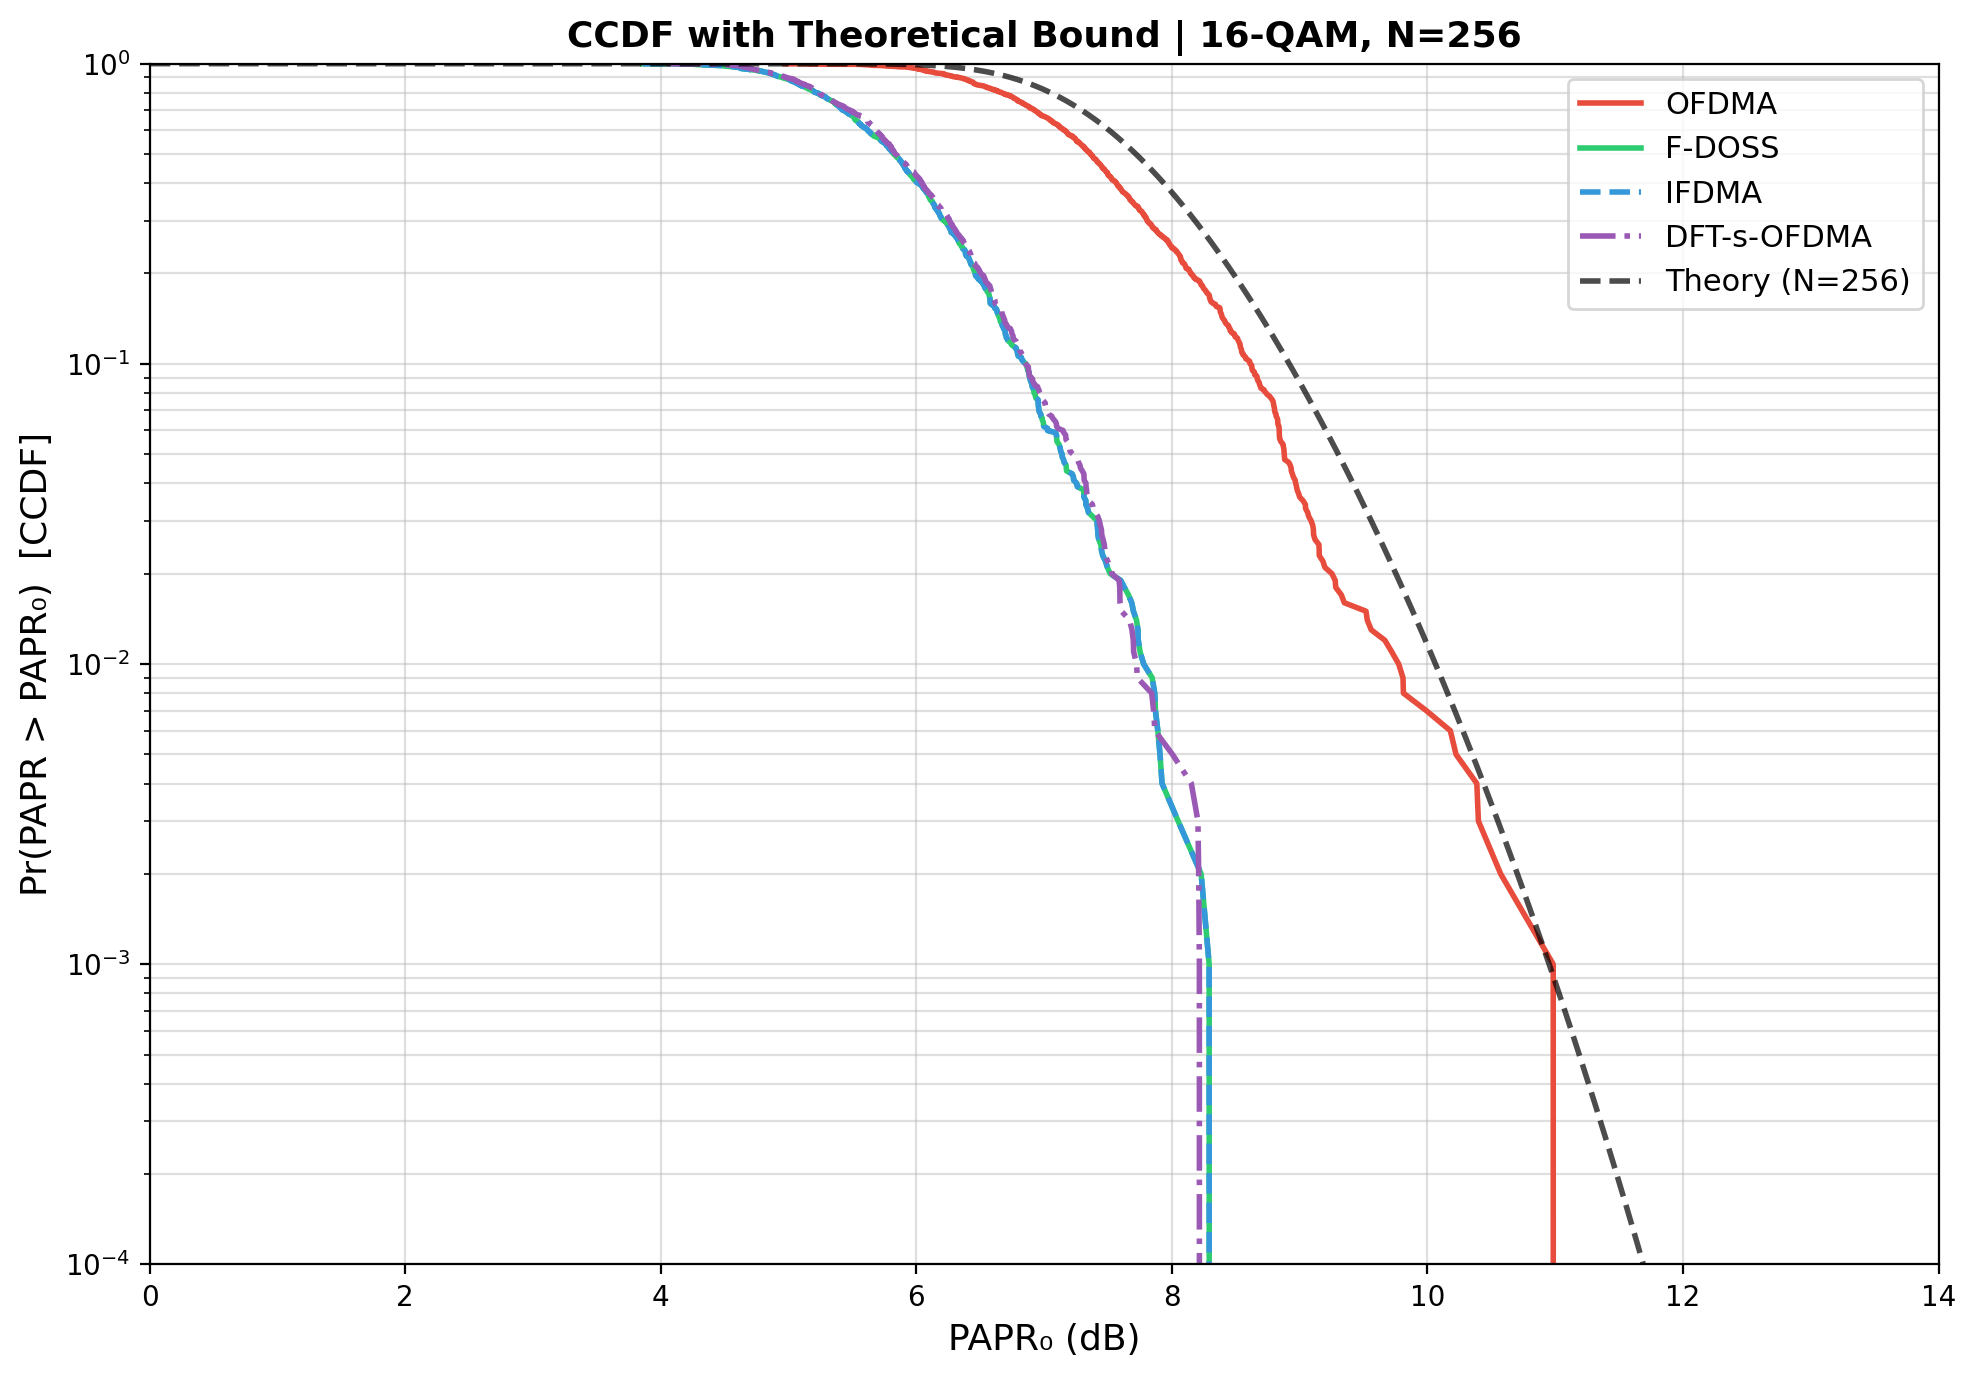
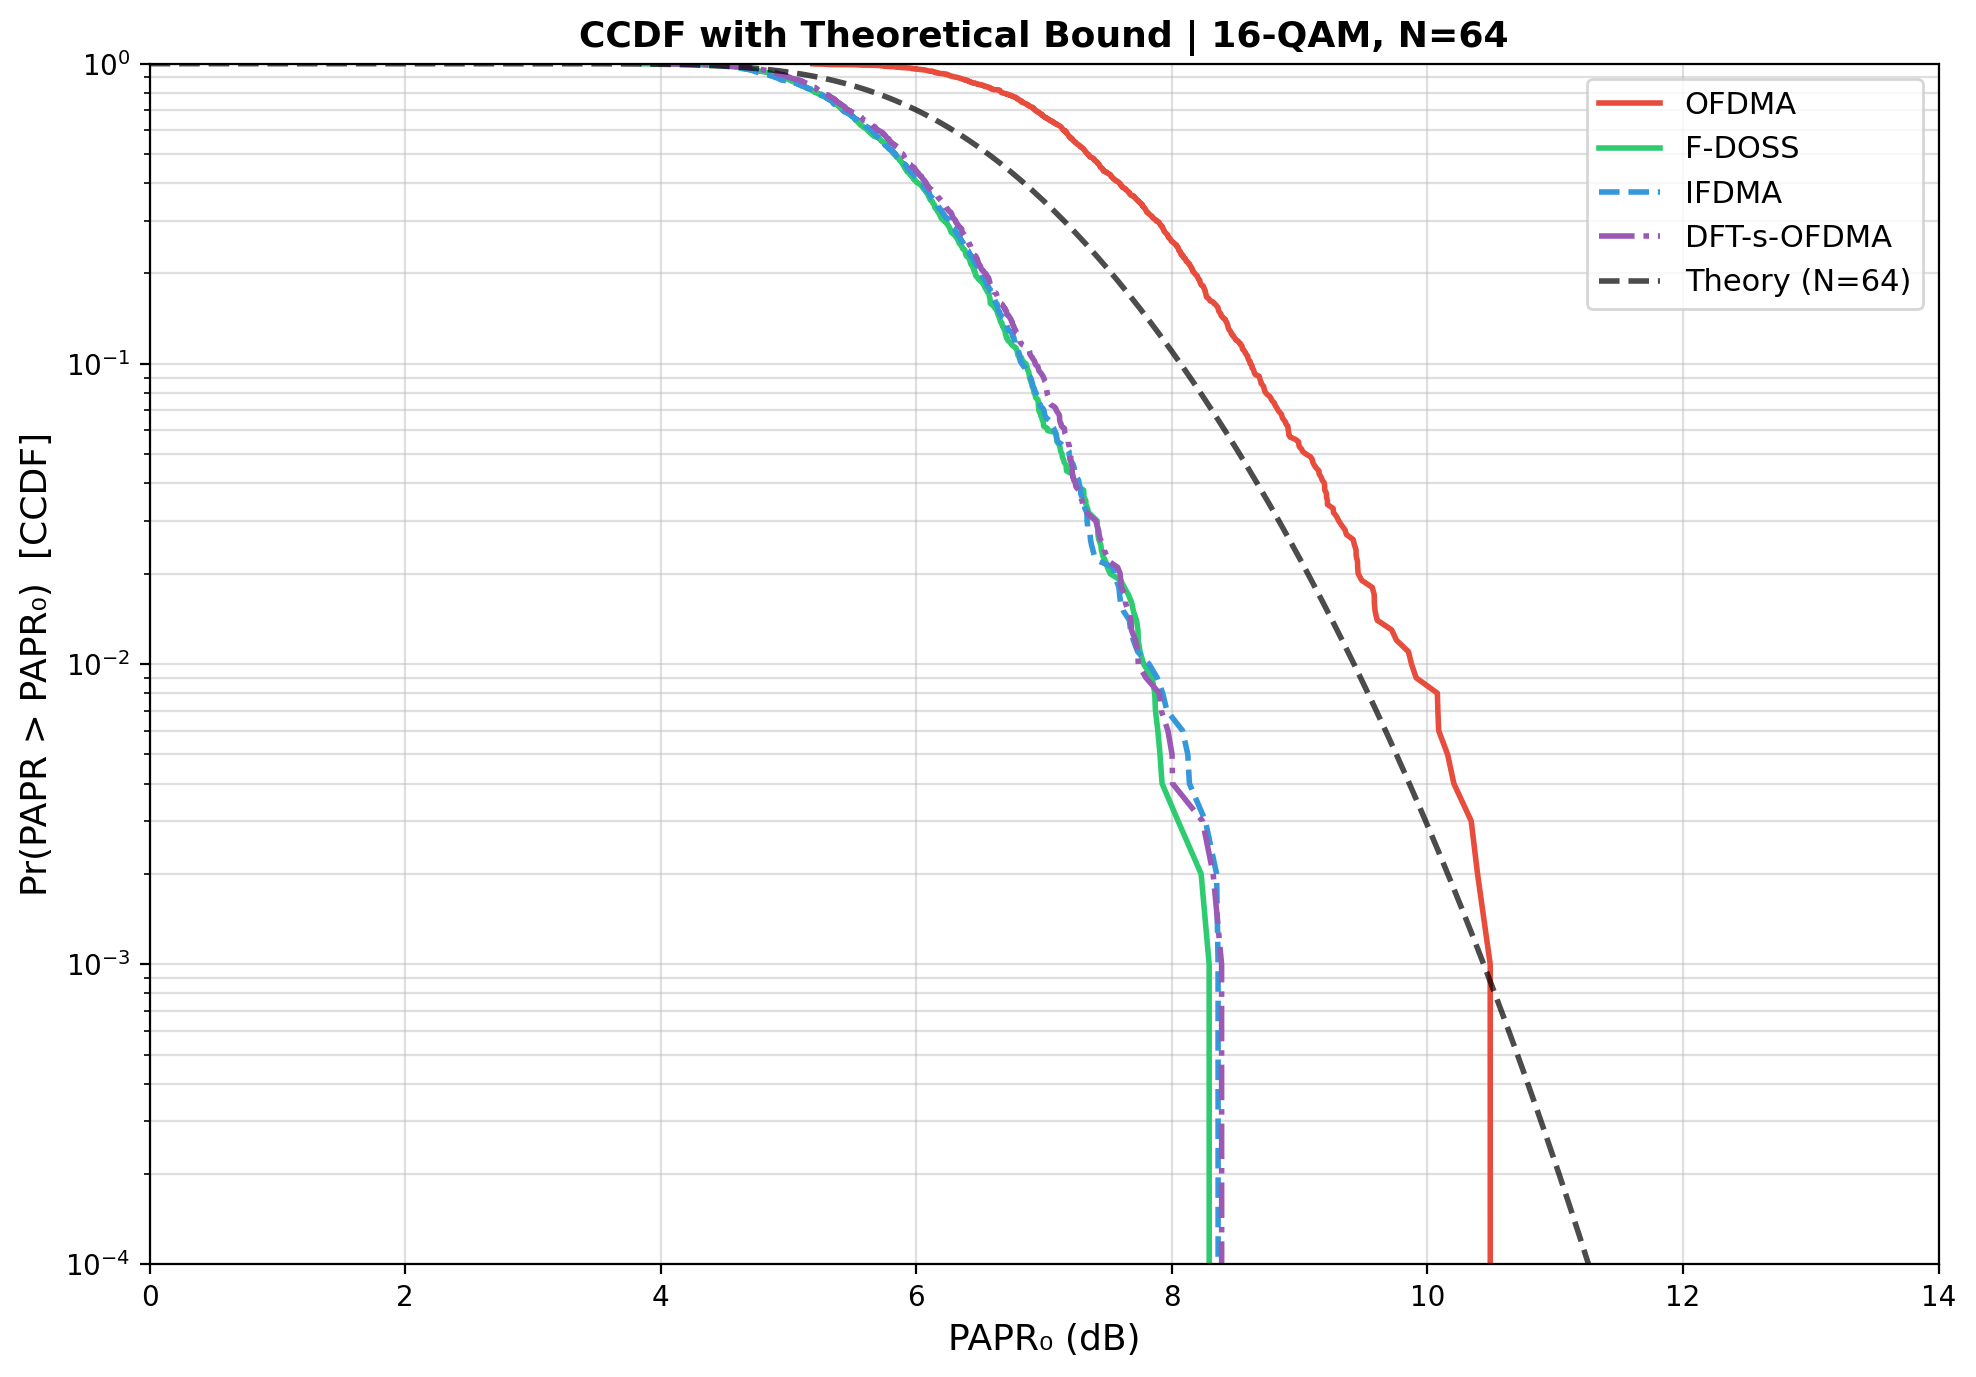
fix: use P (active subcarriers) for theoretical bound, improve labels
- Theory bound should use P=64 not N=256 (only P tones are active)
- Updated plot labels to show 'Ochiai-Imai bound (P=64)'
- The bound is still slightly loose due to QAM vs Gaussian assumption
  and sample correlation from oversampling — good discussion point

diff --git a/src/extended_analysis.py b/src/extended_analysis.py
@@ -278,12 +278,12 @@ def plot_ccdf_with_theory(
     papr0_range = np.linspace(0, 14, 500)
     theory_ccdf = theoretical_ofdma_ccdf(papr0_range, N_sub)
     ax.semilogy(papr0_range, theory_ccdf, 'k--', linewidth=2.0, alpha=0.7,
-                label=f"Theory (N={N_sub})")
+                label=f"Ochiai-Imai bound (P={N_sub})")
     
     ax.set_xlabel("PAPR₀ (dB)", fontsize=13)
     ax.set_ylabel("Pr(PAPR > PAPR₀)  [CCDF]", fontsize=13)
     ax.set_title(
-        f"CCDF with Theoretical Bound | {qam_order}-QAM, N={N_sub}",
+        f"CCDF with Theoretical Bound | {qam_order}-QAM, P={N_sub} active subcarriers",
         fontsize=13, fontweight='bold')
     ax.legend(fontsize=11, loc='upper right')
     ax.grid(True, which='both', alpha=0.4)

diff --git a/main.py b/main.py
@@ -135,7 +135,7 @@ def main():
         print("========================================")
         for qam in config.QAM_ORDERS:
             plot_ccdf_with_theory(
-                all_results[qam], qam, config.N,
+                all_results[qam], qam, config.P,
                 os.path.join("outputs", f"papr_ccdf_theory_{qam}qam.png"))
 
         # 4. Clipping & EVM tradeoff
